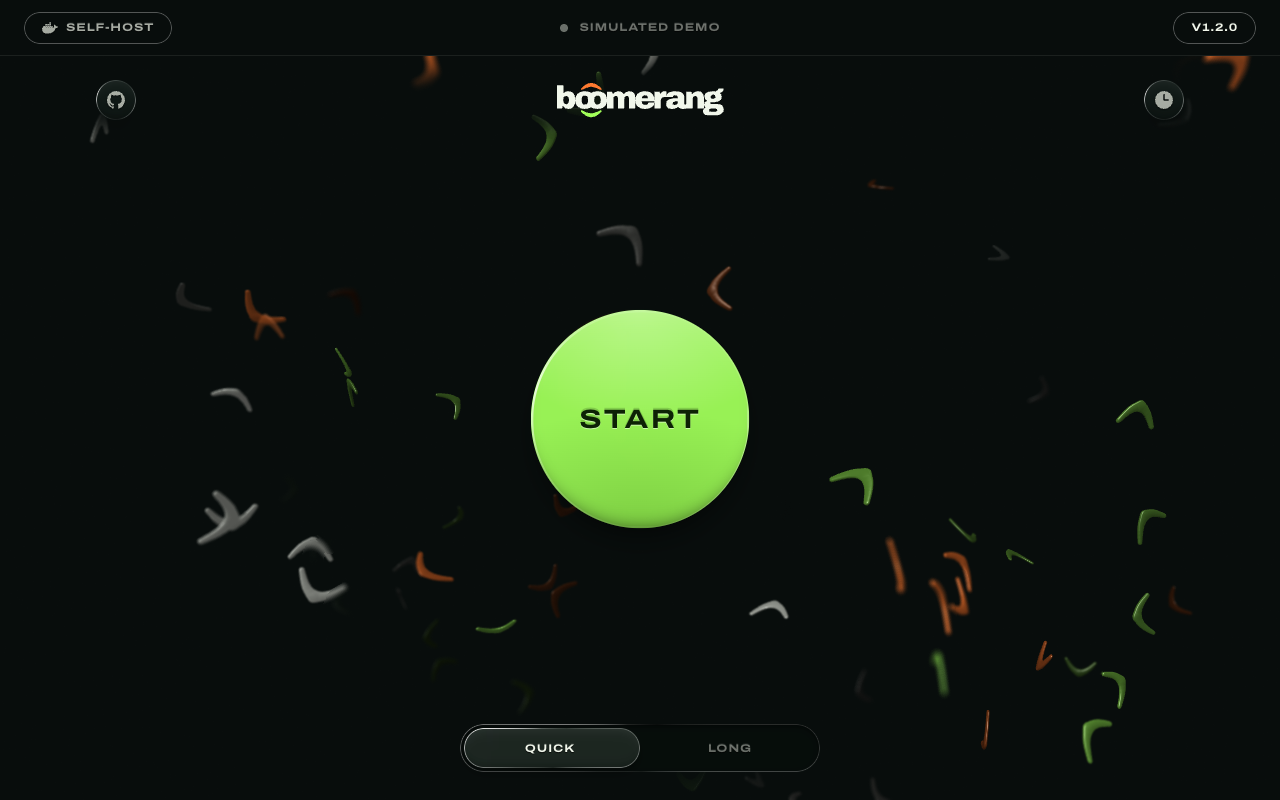
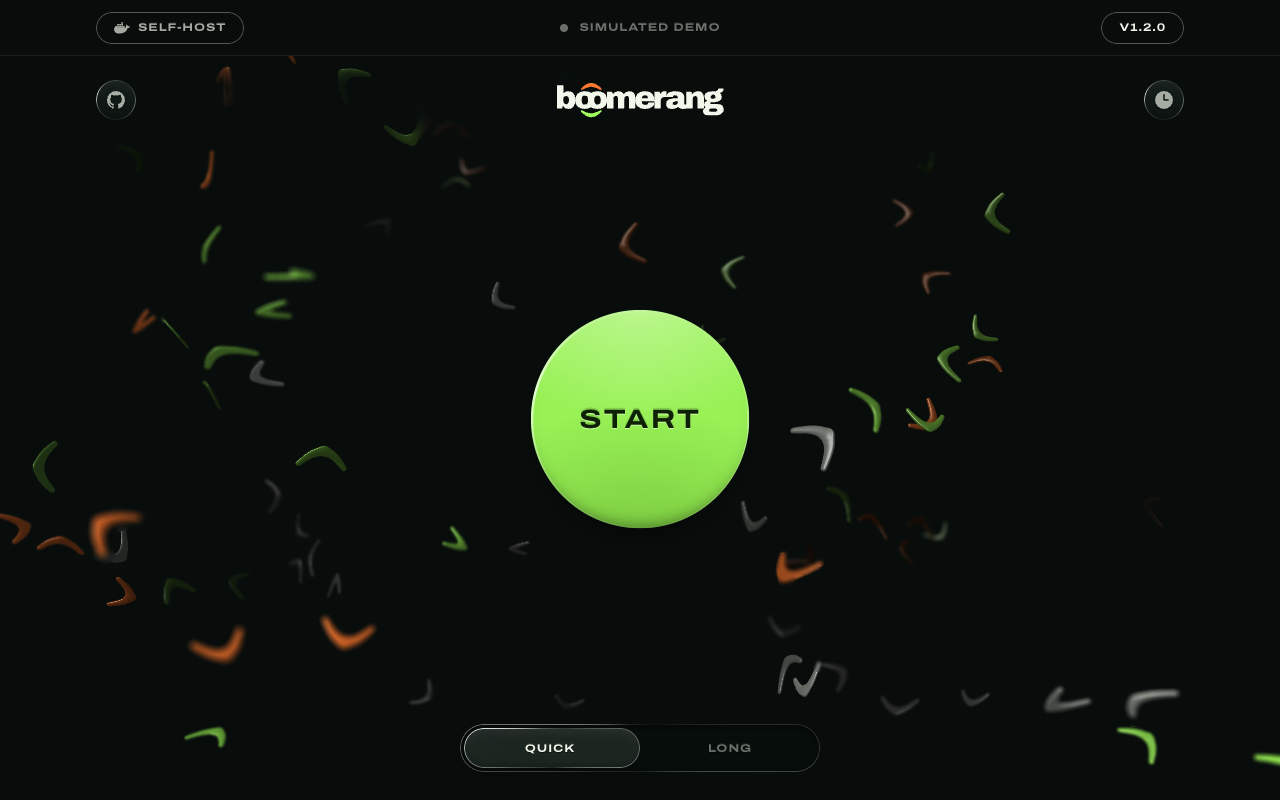
fix: line the demo bar up with the app's top bar, with labels on every screen
The bar takes the app's column, so Self-host sits over the GitHub key
and the release over the History key, on a phone and on a wide screen.
Both keys show their labels everywhere: on a phone the lettering is 9px
and Self-host leaves its Docker icon out, so all three fit.

diff --git a/site/routes/+page.svelte b/site/routes/+page.svelte
@@ -59,7 +59,9 @@
   });
 
   /** A compact secondary key: hollow, an even hairline round the label, as the app draws Clear history. */
-  const KEY = 'glass hollow inline-flex h-8 items-center gap-2 px-4.5 text-ink-2 transition-colors fine:hover:text-ink';
+  const KEY = 'glass hollow inline-flex h-8 items-center gap-2 px-2.5 text-ink-2 transition-colors fine:hover:text-ink wide:px-4.5';
+  /** A key's lettering; on a phone two sizes smaller, so the note and both keys fit the app's column. */
+  const LETTERS = `${KEY_LABEL} narrow:text-[9px] narrow:tracking-[0.06em]`;
   /** Trims a label to its capitals, so it sits on the middle of its key the way the app's labels do. */
   const TRIM = '[text-box:trim-both_cap_alphabetic]';
 </script>
@@ -82,49 +84,41 @@
 </svelte:head>
 
 <div class="flex h-dvh flex-col">
-  <!-- The bar is the app's own chrome, laid out like its top bar: Self-host on the left, the note in the
-       middle in a key's lettering, muted until a test runs, and the latest release on the right. -->
-  <header class="grid h-14 flex-none grid-cols-[minmax(0,1fr)_auto_minmax(0,1fr)] items-center gap-2 border-b border-ink/8 px-4 sm:gap-4 sm:px-6">
-    <!-- On a phone, Self-host is the Docker icon alone in a round key, so the note keeps its room. -->
-    <a class="{KEY} justify-self-start max-sm:w-8 max-sm:justify-center max-sm:px-0" href={GUIDE} aria-label="Self-host with Docker">
-      <svg class="size-4 flex-none drop-shadow-[0_1px_1px_rgba(0,0,0,0.7)]" viewBox="0 0 24 24" fill="currentColor" aria-hidden="true"
-        ><path d="M13.98 11.08h2.12a.19.19 0 0 0 .19-.19V9.01a.19.19 0 0 0-.19-.19h-2.12a.18.18 0 0 0-.18.18v1.9c0 .1.08.18.18.18m-2.95-5.43h2.12a.19.19 0 0 0 .18-.19V3.57a.19.19 0 0 0-.18-.18h-2.12a.18.18 0 0 0-.19.18v1.9c0 .1.09.18.19.18m0 2.71h2.12a.19.19 0 0 0 .18-.18V6.29a.19.19 0 0 0-.18-.18h-2.12a.18.18 0 0 0-.19.18v1.89c0 .1.09.18.19.18m-2.93 0h2.12a.19.19 0 0 0 .18-.18V6.29a.18.18 0 0 0-.18-.18H8.1a.18.18 0 0 0-.18.18v1.89c0 .1.08.18.18.18m-2.96 0h2.11a.19.19 0 0 0 .19-.18V6.29a.18.18 0 0 0-.19-.18H5.14a.19.19 0 0 0-.19.18v1.89c0 .1.08.18.19.18m5.89 2.72h2.12a.19.19 0 0 0 .18-.19V9.01a.19.19 0 0 0-.18-.19h-2.12a.18.18 0 0 0-.19.18v1.9c0 .1.09.18.19.18m-2.93 0h2.12a.18.18 0 0 0 .18-.19V9.01a.18.18 0 0 0-.18-.19H8.1a.18.18 0 0 0-.18.19v1.89c0 .1.08.19.18.19m-2.96 0h2.11a.18.18 0 0 0 .19-.19V9.01a.18.18 0 0 0-.18-.19H5.14a.19.19 0 0 0-.19.19v1.89c0 .1.08.19.19.19m-2.92 0h2.12a.18.18 0 0 0 .18-.19V9.01a.18.18 0 0 0-.18-.19H2.22a.18.18 0 0 0-.19.19v1.89c0 .1.08.19.19.19m21.54-1.19c-.06-.05-.67-.51-1.95-.51-.34 0-.68.03-1.01.09a3.77 3.77 0 0 0-1.72-2.57l-.34-.2-.23.33a4.6 4.6 0 0 0-.6 1.43c-.24.93-.1 1.8.36 2.55-.56.31-1.45.38-1.63.39H.75a.75.75 0 0 0-.75.75 11.38 11.38 0 0 0 .7 4.06 6.03 6.03 0 0 0 2.4 3.12c1.18.73 3.1 1.14 5.28 1.14.98 0 1.96-.09 2.93-.27a12.1 12.1 0 0 0 3.82-1.39 10.5 10.5 0 0 0 2.6-2.13c1.25-1.42 2-3 2.55-4.4h.22c1.37 0 2.21-.55 2.68-1.01.31-.3.55-.65.71-1.05l.1-.29Z" /></svg
-      >
-      <span class="hidden sm:inline {TRIM} {KEY_LABEL}">Self-host</span>
-    </a>
-    <p class="m-0 flex items-center gap-3" data-testid="demo-note" data-running={running}>
-      <!-- While a test runs, the dot lights and a ring pulses out of it. -->
-      <span class="relative size-2 flex-none" aria-hidden="true">
-        {#if running}
-          <span class="absolute inset-0 rounded-full bg-lime opacity-75 motion-safe:animate-ping"></span>
-        {/if}
-        <span
-          class="absolute inset-0 rounded-full transition-[background-color,box-shadow] duration-500 {running
-            ? 'bg-lime shadow-[0_0_10px_rgba(161,255,89,0.8)]'
-            : 'bg-ink-3 shadow-none'}"
-        ></span>
-      </span>
-      <span class="whitespace-nowrap transition-colors duration-500 {running ? 'text-ink' : 'text-ink-3'} {TRIM} {KEY_LABEL}">Simulated demo</span>
-    </p>
-    <!-- Until there is a release, a phone shows a tag icon in a round key here, matching Self-host's. -->
-    <a
-      class="{KEY} justify-self-end {release ? '' : 'max-sm:w-8 max-sm:justify-center max-sm:px-0'}"
-      href={release?.url ?? RELEASES}
-      aria-label={release ? undefined : 'Releases'}
-      data-testid="release"
-      data-release={release ? 'shown' : 'hidden'}
+  <!-- The bar is the app's own chrome, laid out like its top bar right under it and as wide: Self-host
+       over the GitHub key, the note in the middle in a key's lettering, muted until a test runs, and
+       the latest release over the History key. On a phone the lettering is smaller, to fit all three. -->
+  <header class="flex h-14 flex-none items-center border-b border-ink/8">
+    <div
+      class="mx-auto grid w-(--col) grid-cols-[minmax(0,1fr)_auto_minmax(0,1fr)] items-center gap-1.5 wide:w-full wide:gap-4 wide:px-[max(96px,calc(50vw-var(--ui-max)/2))]"
     >
-      {#if release}
-        <span class="text-ink {TRIM} {KEY_LABEL}" data-testid="release-tag">{release.tag}</span>
-      {:else}
-        <svg class="size-4 flex-none drop-shadow-[0_1px_1px_rgba(0,0,0,0.7)] sm:hidden" viewBox="0 0 16 16" fill="currentColor" aria-hidden="true"
-          ><path
-            d="M1 7.775V2.75C1 1.784 1.784 1 2.75 1h5.025c.464 0 .91.184 1.238.513l6.25 6.25a1.75 1.75 0 0 1 0 2.474l-5.026 5.026a1.75 1.75 0 0 1-2.474 0l-6.25-6.25A1.752 1.752 0 0 1 1 7.775Zm1.5 0c0 .066.026.13.073.177l6.25 6.25a.25.25 0 0 0 .354 0l5.025-5.025a.25.25 0 0 0 0-.354l-6.25-6.25a.25.25 0 0 0-.177-.073H2.75a.25.25 0 0 0-.25.25ZM6 5a1 1 0 1 1 0 2 1 1 0 0 1 0-2Z"
-          /></svg
+      <a class="{KEY} justify-self-start" href={GUIDE} aria-label="Self-host with Docker">
+        <svg class="hidden size-4 flex-none drop-shadow-[0_1px_1px_rgba(0,0,0,0.7)] wide:block" viewBox="0 0 24 24" fill="currentColor" aria-hidden="true"
+          ><path d="M13.98 11.08h2.12a.19.19 0 0 0 .19-.19V9.01a.19.19 0 0 0-.19-.19h-2.12a.18.18 0 0 0-.18.18v1.9c0 .1.08.18.18.18m-2.95-5.43h2.12a.19.19 0 0 0 .18-.19V3.57a.19.19 0 0 0-.18-.18h-2.12a.18.18 0 0 0-.19.18v1.9c0 .1.09.18.19.18m0 2.71h2.12a.19.19 0 0 0 .18-.18V6.29a.19.19 0 0 0-.18-.18h-2.12a.18.18 0 0 0-.19.18v1.89c0 .1.09.18.19.18m-2.93 0h2.12a.19.19 0 0 0 .18-.18V6.29a.18.18 0 0 0-.18-.18H8.1a.18.18 0 0 0-.18.18v1.89c0 .1.08.18.18.18m-2.96 0h2.11a.19.19 0 0 0 .19-.18V6.29a.18.18 0 0 0-.19-.18H5.14a.19.19 0 0 0-.19.18v1.89c0 .1.08.18.19.18m5.89 2.72h2.12a.19.19 0 0 0 .18-.19V9.01a.19.19 0 0 0-.18-.19h-2.12a.18.18 0 0 0-.19.18v1.9c0 .1.09.18.19.18m-2.93 0h2.12a.18.18 0 0 0 .18-.19V9.01a.18.18 0 0 0-.18-.19H8.1a.18.18 0 0 0-.18.19v1.89c0 .1.08.19.18.19m-2.96 0h2.11a.18.18 0 0 0 .19-.19V9.01a.18.18 0 0 0-.18-.19H5.14a.19.19 0 0 0-.19.19v1.89c0 .1.08.19.19.19m-2.92 0h2.12a.18.18 0 0 0 .18-.19V9.01a.18.18 0 0 0-.18-.19H2.22a.18.18 0 0 0-.19.19v1.89c0 .1.08.19.19.19m21.54-1.19c-.06-.05-.67-.51-1.95-.51-.34 0-.68.03-1.01.09a3.77 3.77 0 0 0-1.72-2.57l-.34-.2-.23.33a4.6 4.6 0 0 0-.6 1.43c-.24.93-.1 1.8.36 2.55-.56.31-1.45.38-1.63.39H.75a.75.75 0 0 0-.75.75 11.38 11.38 0 0 0 .7 4.06 6.03 6.03 0 0 0 2.4 3.12c1.18.73 3.1 1.14 5.28 1.14.98 0 1.96-.09 2.93-.27a12.1 12.1 0 0 0 3.82-1.39 10.5 10.5 0 0 0 2.6-2.13c1.25-1.42 2-3 2.55-4.4h.22c1.37 0 2.21-.55 2.68-1.01.31-.3.55-.65.71-1.05l.1-.29Z" /></svg
         >
-        <span class="hidden sm:inline {TRIM} {KEY_LABEL}">Releases</span>
-      {/if}
-    </a>
+        <span class="{TRIM} {LETTERS}">Self-host</span>
+      </a>
+      <p class="m-0 flex items-center gap-1.5 wide:gap-3" data-testid="demo-note" data-running={running}>
+        <!-- While a test runs, the dot lights and a ring pulses out of it. -->
+        <span class="relative size-2 flex-none" aria-hidden="true">
+          {#if running}
+            <span class="absolute inset-0 rounded-full bg-lime opacity-75 motion-safe:animate-ping"></span>
+          {/if}
+          <span
+            class="absolute inset-0 rounded-full transition-[background-color,box-shadow] duration-500 {running
+              ? 'bg-lime shadow-[0_0_10px_rgba(161,255,89,0.8)]'
+              : 'bg-ink-3 shadow-none'}"
+          ></span>
+        </span>
+        <span class="whitespace-nowrap transition-colors duration-500 {running ? 'text-ink' : 'text-ink-3'} {TRIM} {LETTERS}">Simulated demo</span>
+      </p>
+      <a class="{KEY} justify-self-end" href={release?.url ?? RELEASES} data-testid="release" data-release={release ? 'shown' : 'hidden'}>
+        {#if release}
+          <span class="text-ink {TRIM} {LETTERS}" data-testid="release-tag">{release.tag}</span>
+        {:else}
+          <span class="{TRIM} {LETTERS}">Releases</span>
+        {/if}
+      </a>
+    </div>
   </header>
   <iframe class="block min-h-0 w-full flex-auto border-0 bg-ground" title="Boomerang demo" src="/demo/" bind:this={frame}></iframe>
 </div>

diff --git a/tests/site.spec.ts b/tests/site.spec.ts
@@ -147,3 +147,19 @@ for (const answer of [{}, { status: 404 }]) {
     }
   });
 }
+
+for (const [width, viewport] of Object.entries(WIDTHS)) {
+  test(`on a ${width}, the bar's keys line up with the app's GitHub and History keys under them`, async ({ page }) => {
+    await offline(page);
+    await page.setViewportSize(viewport);
+    await page.goto('/');
+    await siteReady(page);
+    const demo = page.frameLocator('iframe[title="Boomerang demo"]');
+    const github = await demo.locator('#gh').boundingBox();
+    const history = await demo.locator('#menu').boundingBox();
+    const self = await page.getByRole('link', { name: 'Self-host with Docker' }).boundingBox();
+    const release = await page.getByTestId('release').boundingBox();
+    expect(self!.x).toBeCloseTo(github!.x, 0);
+    expect(release!.x + release!.width).toBeCloseTo(history!.x + history!.width, 0);
+  });
+}
